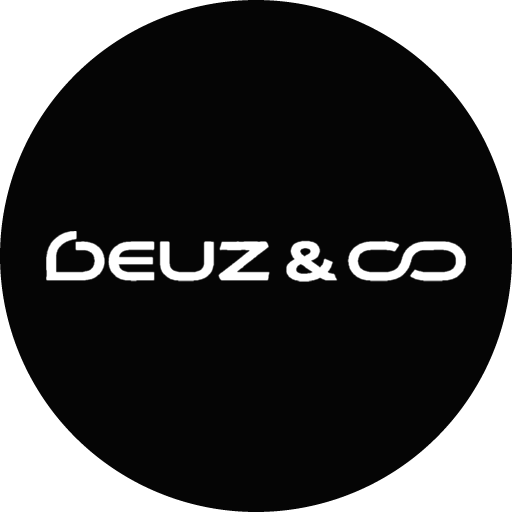
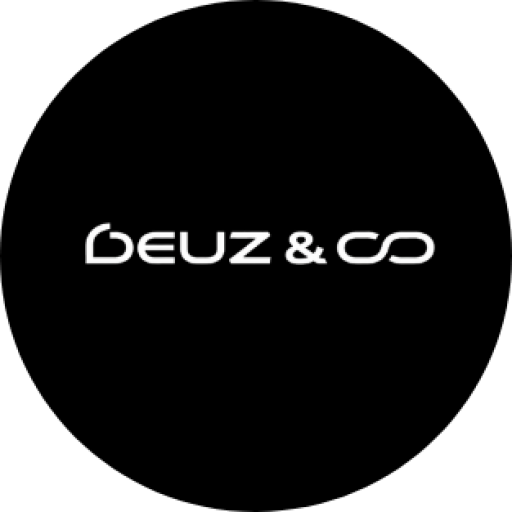
chore: update site assets and meta images
Replace site brand assets and social media meta images with the latest versions.

diff --git a/index.html b/index.html
@@ -21,27 +21,27 @@
     <meta name="description" content="A premium international clothing brand crafted for those who move with purpose and presence. Blending cinematic aesthetics with luxury streetwear, every piece is designed with precision, bold storytelling, and elevated craftsmanship. Experience fashion that feels powerful, timeless, and globally inspired." />
     <meta itemprop="name" content="DEUZ & CO" />
     <meta itemprop="description" content="A premium international clothing brand crafted for those who move with purpose and presence. Blending cinematic aesthetics with luxury streetwear, every piece is designed with precision, bold storytelling, and elevated craftsmanship. Experience fashion that feels powerful, timeless, and globally inspired." />
-    <meta itemprop="image" content="/assets/aistudio/1792580741930_47a13015.png" />
+    <meta itemprop="image" content="/assets/aistudio/20261025_155628_0000_5f3580f9.png" />
     <meta property="og:type" content="website" />
     <meta property="og:site_name" content="DEUZ & CO" />
     <meta property="og:title" content="DEUZ & CO" />
     <meta property="og:description" content="A premium international clothing brand crafted for those who move with purpose and presence. Blending cinematic aesthetics with luxury streetwear, every piece is designed with precision, bold storytelling, and elevated craftsmanship. Experience fashion that feels powerful, timeless, and globally inspired." />
-    <meta property="og:image" content="/assets/aistudio/1792580741930_47a13015.png" />
-    <meta property="og:logo" content="/assets/aistudio/1792580741930_47a13015.png" />
+    <meta property="og:image" content="/assets/aistudio/20261025_155628_0000_5f3580f9.png" />
+    <meta property="og:logo" content="/assets/aistudio/20261025_155628_0000_5f3580f9.png" />
     <meta property="og:image:type" content="image/png" />
     <meta property="og:image:alt" content="DEUZ & CO Official Logo" />
     <meta name="twitter:card" content="summary_large_image" />
     <meta name="twitter:title" content="DEUZ & CO" />
     <meta name="twitter:description" content="A premium international clothing brand crafted for those who move with purpose and presence. Blending cinematic aesthetics with luxury streetwear, every piece is designed with precision, bold storytelling, and elevated craftsmanship. Experience fashion that feels powerful, timeless, and globally inspired." />
-    <meta name="twitter:image" content="/assets/aistudio/1792580741930_47a13015.png" />
+    <meta name="twitter:image" content="/assets/aistudio/20261025_155628_0000_5f3580f9.png" />
     <meta name="twitter:image:alt" content="DEUZ & CO Official Logo" />
     <script type="application/ld+json">
     {
       "@context": "https://schema.org",
       "@type": "Organization",
       "name": "DEUZ & CO",
-      "logo": "/assets/aistudio/1792580741930_47a13015.png",
-      "image": "/assets/aistudio/1792580741930_47a13015.png",
+      "logo": "/assets/aistudio/20261025_155628_0000_5f3580f9.png",
+      "image": "/assets/aistudio/20261025_155628_0000_5f3580f9.png",
       "description": "A premium international clothing brand crafted for those who move with purpose and presence. Blending cinematic aesthetics with luxury streetwear, every piece is designed with precision, bold storytelling, and elevated craftsmanship. Experience fashion that feels powerful, timeless, and globally inspired."
     }
     </script>
